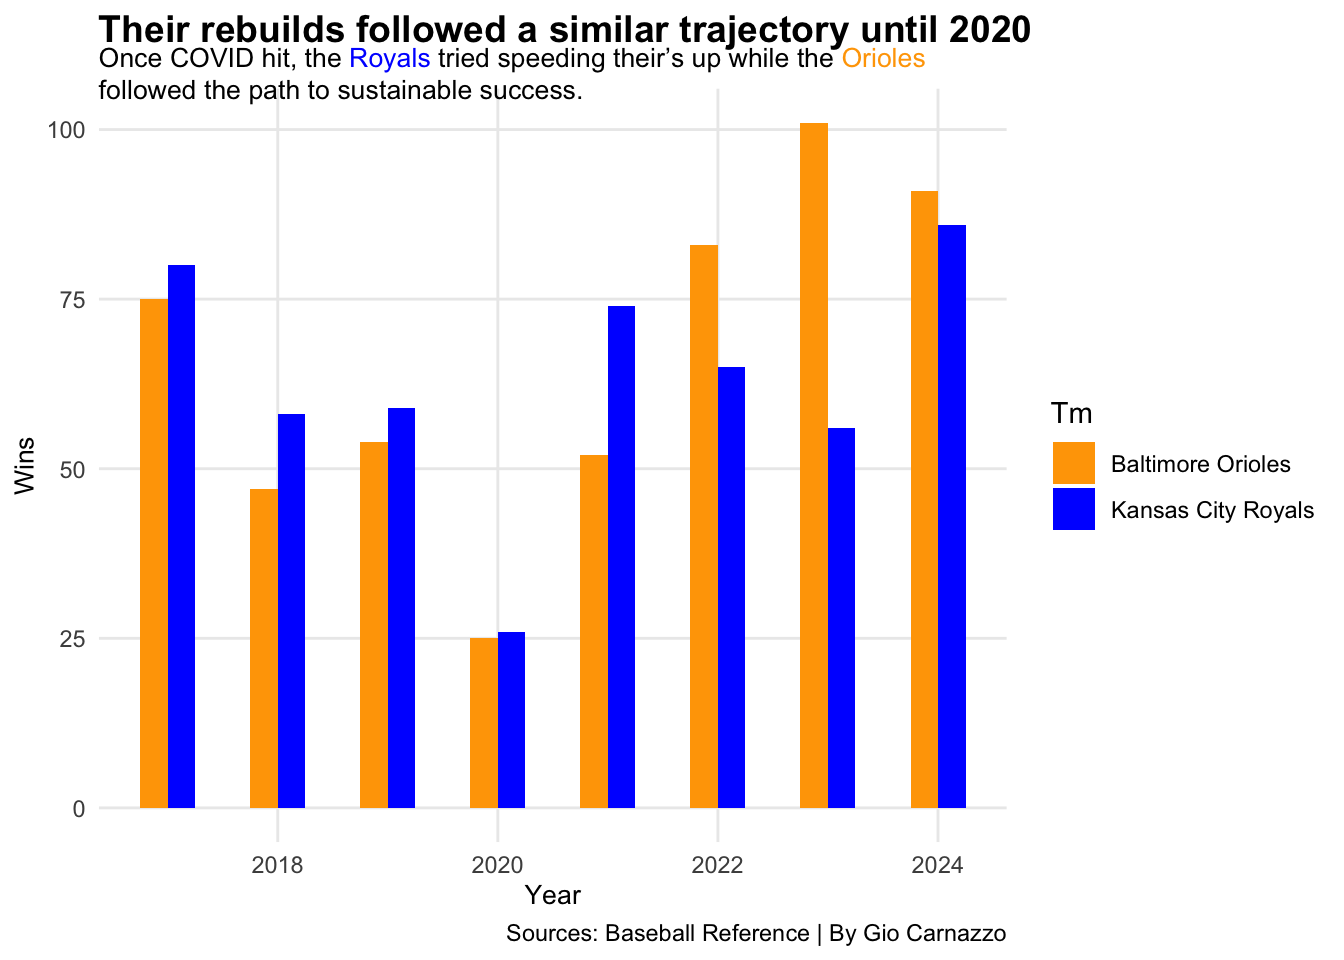
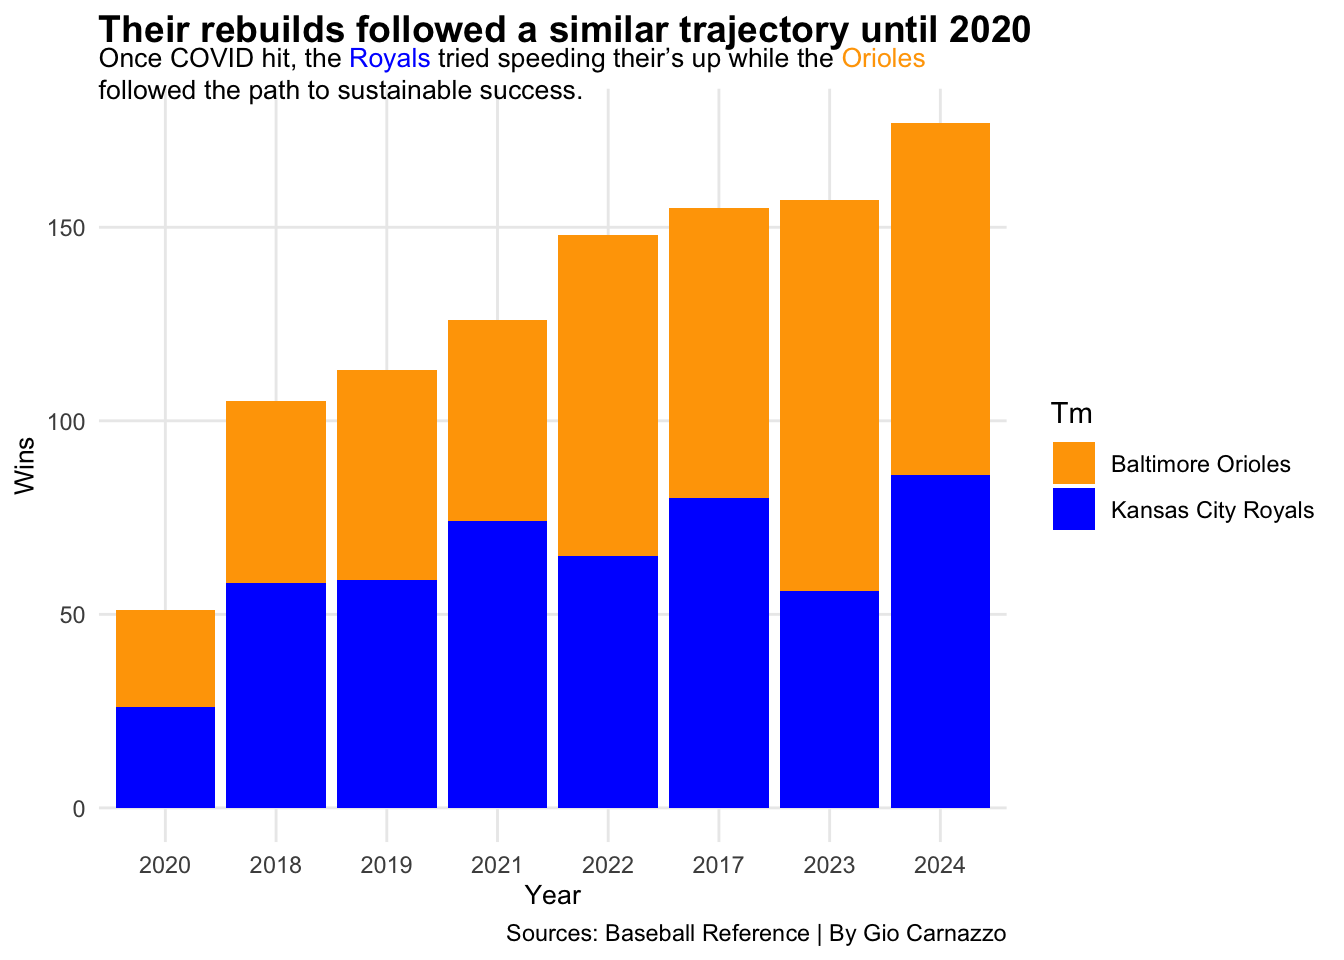
Fixing mess

diff --git a/posts/royals-orioles-baseball-mlb-rebuild/index.html b/posts/royals-orioles-baseball-mlb-rebuild/index.html
@@ -203,23 +203,26 @@ pre > code.sourceCode > span > a:first-child::before { text-decoration: underlin
 <span id="cb1-7"><a href="#cb1-7" aria-hidden="true" tabindex="-1"></a></span>
 <span id="cb1-8"><a href="#cb1-8" aria-hidden="true" tabindex="-1"></a>royals_orioles <span class="ot">&lt;-</span> <span class="fu">read.csv</span>(<span class="st">"data/orioles_royals.csv"</span>)</span>
 <span id="cb1-9"><a href="#cb1-9" aria-hidden="true" tabindex="-1"></a></span>
-<span id="cb1-10"><a href="#cb1-10" aria-hidden="true" tabindex="-1"></a><span class="fu">ggplot</span>(<span class="at">data =</span> royals_orioles) <span class="sc">+</span></span>
-<span id="cb1-11"><a href="#cb1-11" aria-hidden="true" tabindex="-1"></a>  <span class="fu">geom_bar</span>(<span class="fu">aes</span>(<span class="at">x =</span> Year, <span class="at">y =</span> W, <span class="at">fill =</span> Tm), <span class="at">stat =</span> <span class="st">"identity"</span>, <span class="at">position =</span> <span class="st">"dodge"</span>, <span class="at">width =</span> <span class="fl">0.5</span>) <span class="sc">+</span></span>
-<span id="cb1-12"><a href="#cb1-12" aria-hidden="true" tabindex="-1"></a>  <span class="fu">labs</span>(</span>
-<span id="cb1-13"><a href="#cb1-13" aria-hidden="true" tabindex="-1"></a>    <span class="at">title =</span> <span class="st">"Their rebuilds followed a similar trajectory until 2020"</span>,</span>
-<span id="cb1-14"><a href="#cb1-14" aria-hidden="true" tabindex="-1"></a>    <span class="at">subtitle =</span> <span class="st">"Once COVID hit, the &lt;span style = 'color:blue;'&gt;Royals&lt;/span&gt; tried speeding their's up while the &lt;span style = 'color:orange;'&gt;Orioles&lt;/span&gt; followed the path to sustainable success."</span>,</span>
-<span id="cb1-15"><a href="#cb1-15" aria-hidden="true" tabindex="-1"></a>    <span class="at">caption =</span> <span class="st">"Sources: Baseball Reference | By Gio Carnazzo"</span>,</span>
-<span id="cb1-16"><a href="#cb1-16" aria-hidden="true" tabindex="-1"></a>    <span class="at">x =</span> <span class="st">"Year"</span>,</span>
-<span id="cb1-17"><a href="#cb1-17" aria-hidden="true" tabindex="-1"></a>    <span class="at">y =</span> <span class="st">"Wins"</span></span>
-<span id="cb1-18"><a href="#cb1-18" aria-hidden="true" tabindex="-1"></a>  ) <span class="sc">+</span></span>
-<span id="cb1-19"><a href="#cb1-19" aria-hidden="true" tabindex="-1"></a>  <span class="fu">scale_fill_manual</span>(<span class="at">values =</span> <span class="fu">c</span>(<span class="st">"orange"</span>, <span class="st">"blue"</span>)) <span class="sc">+</span></span>
-<span id="cb1-20"><a href="#cb1-20" aria-hidden="true" tabindex="-1"></a>  <span class="fu">theme_minimal</span>() <span class="sc">+</span></span>
-<span id="cb1-21"><a href="#cb1-21" aria-hidden="true" tabindex="-1"></a>  <span class="fu">theme</span>(</span>
-<span id="cb1-22"><a href="#cb1-22" aria-hidden="true" tabindex="-1"></a>    <span class="at">plot.title =</span> <span class="fu">element_text</span>(<span class="at">size =</span> <span class="dv">14</span>, <span class="at">face =</span> <span class="st">"bold"</span>),</span>
-<span id="cb1-23"><a href="#cb1-23" aria-hidden="true" tabindex="-1"></a>    <span class="at">axis.title =</span> <span class="fu">element_text</span>(<span class="at">size =</span> <span class="dv">10</span>),</span>
-<span id="cb1-24"><a href="#cb1-24" aria-hidden="true" tabindex="-1"></a>    <span class="at">plot.subtitle =</span> <span class="fu">element_textbox_simple</span>(<span class="at">size =</span> <span class="dv">10</span>),</span>
-<span id="cb1-25"><a href="#cb1-25" aria-hidden="true" tabindex="-1"></a>    <span class="at">panel.grid.minor =</span> <span class="fu">element_blank</span>()</span>
-<span id="cb1-26"><a href="#cb1-26" aria-hidden="true" tabindex="-1"></a>  )</span></code><button title="Copy to Clipboard" class="code-copy-button"><i class="bi"></i></button></pre></div>
+<span id="cb1-10"><a href="#cb1-10" aria-hidden="true" tabindex="-1"></a>KC_BA <span class="ot">&lt;-</span> royals_orioles <span class="sc">|&gt;</span></span>
+<span id="cb1-11"><a href="#cb1-11" aria-hidden="true" tabindex="-1"></a>  <span class="fu">group_by</span>(Year, Tm)</span>
+<span id="cb1-12"><a href="#cb1-12" aria-hidden="true" tabindex="-1"></a></span>
+<span id="cb1-13"><a href="#cb1-13" aria-hidden="true" tabindex="-1"></a><span class="fu">ggplot</span>() <span class="sc">+</span></span>
+<span id="cb1-14"><a href="#cb1-14" aria-hidden="true" tabindex="-1"></a>  <span class="fu">geom_bar</span>(<span class="at">data=</span>KC_BA, <span class="fu">aes</span>(<span class="at">x=</span><span class="fu">reorder</span>(Year, W), <span class="at">weight=</span>W, <span class="at">fill =</span> Tm)) <span class="sc">+</span></span>
+<span id="cb1-15"><a href="#cb1-15" aria-hidden="true" tabindex="-1"></a>  <span class="fu">labs</span>(</span>
+<span id="cb1-16"><a href="#cb1-16" aria-hidden="true" tabindex="-1"></a>    <span class="at">title =</span> <span class="st">"Their rebuilds followed a similar trajectory until 2020"</span>,</span>
+<span id="cb1-17"><a href="#cb1-17" aria-hidden="true" tabindex="-1"></a>    <span class="at">subtitle =</span> <span class="st">"Once COVID hit, the &lt;span style = 'color:blue;'&gt;Royals&lt;/span&gt; tried speeding their's up while the &lt;span style = 'color:orange;'&gt;Orioles&lt;/span&gt; followed the path to sustainable success."</span>,</span>
+<span id="cb1-18"><a href="#cb1-18" aria-hidden="true" tabindex="-1"></a>    <span class="at">caption =</span> <span class="st">"Sources: Baseball Reference | By Gio Carnazzo"</span>,</span>
+<span id="cb1-19"><a href="#cb1-19" aria-hidden="true" tabindex="-1"></a>    <span class="at">x =</span> <span class="st">"Year"</span>,</span>
+<span id="cb1-20"><a href="#cb1-20" aria-hidden="true" tabindex="-1"></a>    <span class="at">y =</span> <span class="st">"Wins"</span></span>
+<span id="cb1-21"><a href="#cb1-21" aria-hidden="true" tabindex="-1"></a>  ) <span class="sc">+</span></span>
+<span id="cb1-22"><a href="#cb1-22" aria-hidden="true" tabindex="-1"></a>  <span class="fu">scale_fill_manual</span>(<span class="at">values =</span> <span class="fu">c</span>(<span class="st">"orange"</span>, <span class="st">"blue"</span>)) <span class="sc">+</span></span>
+<span id="cb1-23"><a href="#cb1-23" aria-hidden="true" tabindex="-1"></a>  <span class="fu">theme_minimal</span>() <span class="sc">+</span></span>
+<span id="cb1-24"><a href="#cb1-24" aria-hidden="true" tabindex="-1"></a>  <span class="fu">theme</span>(</span>
+<span id="cb1-25"><a href="#cb1-25" aria-hidden="true" tabindex="-1"></a>    <span class="at">plot.title =</span> <span class="fu">element_text</span>(<span class="at">size =</span> <span class="dv">14</span>, <span class="at">face =</span> <span class="st">"bold"</span>),</span>
+<span id="cb1-26"><a href="#cb1-26" aria-hidden="true" tabindex="-1"></a>    <span class="at">axis.title =</span> <span class="fu">element_text</span>(<span class="at">size =</span> <span class="dv">10</span>),</span>
+<span id="cb1-27"><a href="#cb1-27" aria-hidden="true" tabindex="-1"></a>    <span class="at">plot.subtitle =</span> <span class="fu">element_textbox_simple</span>(<span class="at">size =</span> <span class="dv">10</span>),</span>
+<span id="cb1-28"><a href="#cb1-28" aria-hidden="true" tabindex="-1"></a>    <span class="at">panel.grid.minor =</span> <span class="fu">element_blank</span>()</span>
+<span id="cb1-29"><a href="#cb1-29" aria-hidden="true" tabindex="-1"></a>  )</span></code><button title="Copy to Clipboard" class="code-copy-button"><i class="bi"></i></button></pre></div>
 </details>
 <div class="cell-output-display">
 <div>

diff --git a/index.html b/index.html
@@ -200,7 +200,7 @@ window.Quarto = {
 
 <div class="quarto-listing quarto-listing-container-default" id="listing-listing">
 <div class="list quarto-listing-default">
[2 lines of base64/hex data omitted]
 <div class="thumbnail">
 <p><a href="./posts/royals-orioles-baseball-mlb-rebuild/index.html" class="no-external"></a></p><a href="./posts/royals-orioles-baseball-mlb-rebuild/index.html" class="no-external">
 <p><img loading="lazy" src="./posts/royals-orioles-baseball-mlb-rebuild/image.png" class="thumbnail-image"></p>
